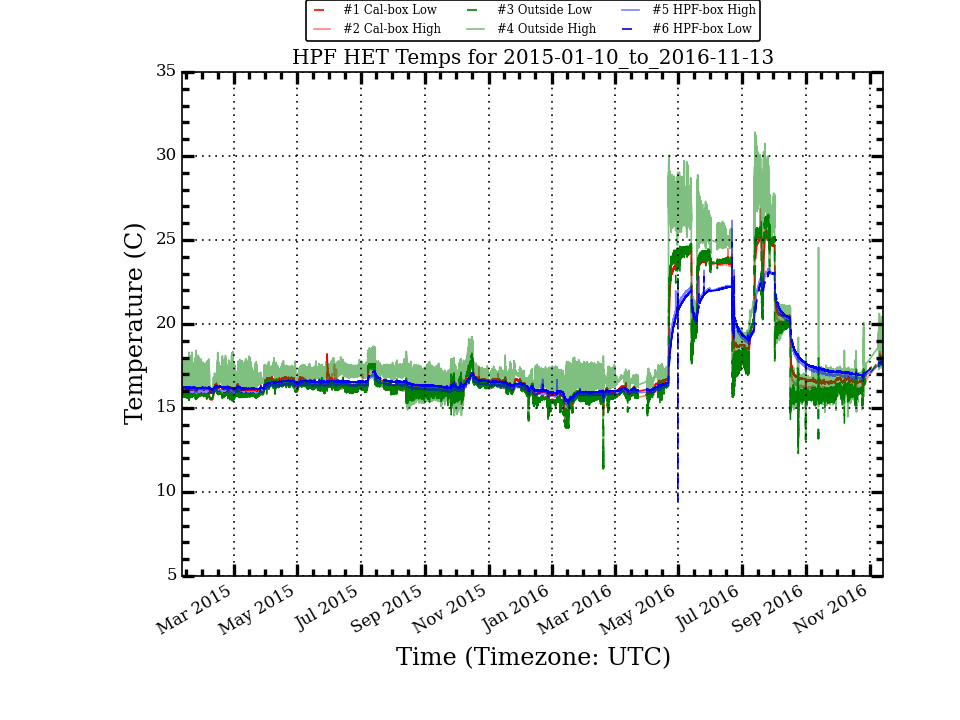
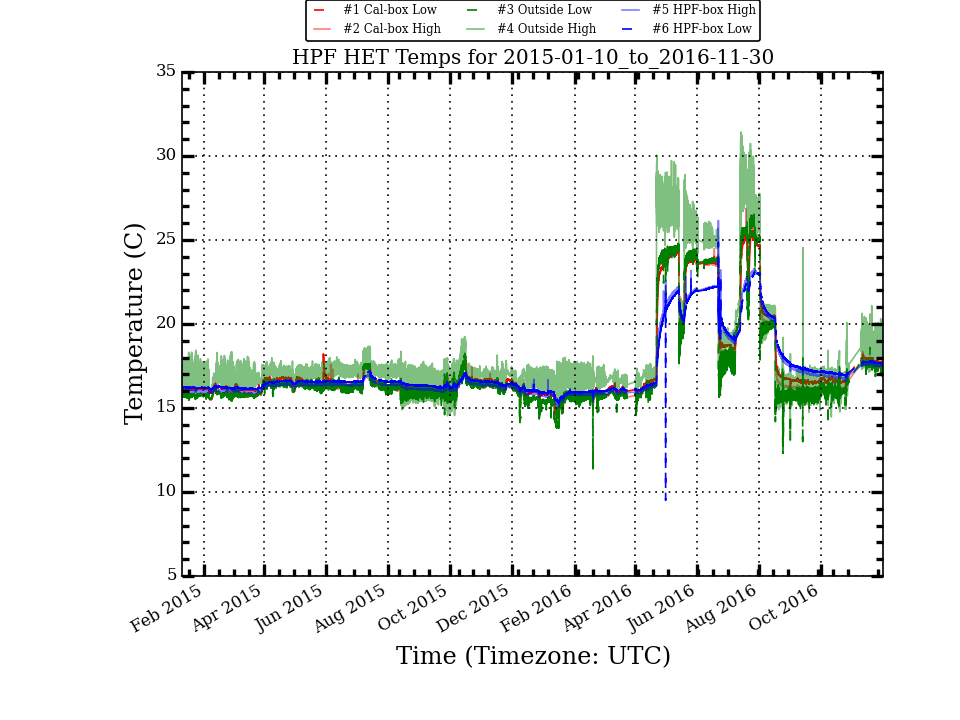
Update HPF Temp Plots

diff --git a/research/hpf_temps/plots/LakeShoreLogTotal_today_stats.html b/research/hpf_temps/plots/LakeShoreLogTotal_today_stats.html
@@ -10,56 +10,56 @@
  </TR>
  <TR>
   <TD>Cal_Low</TD>
-  <TD>17.952</TD>
-  <TD>0.003</TD>
-  <TD>17.952</TD>
-  <TD>17.957</TD>
-  <TD>17.943</TD>
-  <TD>0.014</TD>
+  <TD>17.738</TD>
+  <TD>0.013</TD>
+  <TD>17.744</TD>
+  <TD>17.755</TD>
+  <TD>17.714</TD>
+  <TD>0.041</TD>
  </TR>
  <TR>
   <TD>Cal_High</TD>
-  <TD>17.653</TD>
-  <TD>0.006</TD>
-  <TD>17.653</TD>
-  <TD>17.664</TD>
-  <TD>17.639</TD>
-  <TD>0.025</TD>
+  <TD>17.433</TD>
+  <TD>0.016</TD>
+  <TD>17.438</TD>
+  <TD>17.462</TD>
+  <TD>17.395</TD>
+  <TD>0.067</TD>
  </TR>
  <TR>
   <TD>Out_Low</TD>
-  <TD>17.746</TD>
-  <TD>0.024</TD>
-  <TD>17.746</TD>
-  <TD>17.811</TD>
-  <TD>17.675</TD>
-  <TD>0.136</TD>
+  <TD>17.449</TD>
+  <TD>0.115</TD>
+  <TD>17.484</TD>
+  <TD>17.629</TD>
+  <TD>16.867</TD>
+  <TD>0.762</TD>
  </TR>
  <TR>
   <TD>Out_High</TD>
-  <TD>18.750</TD>
-  <TD>0.373</TD>
-  <TD>18.640</TD>
-  <TD>20.037</TD>
-  <TD>18.216</TD>
-  <TD>1.821</TD>
+  <TD>18.604</TD>
+  <TD>0.399</TD>
+  <TD>18.532</TD>
+  <TD>20.301</TD>
+  <TD>18.005</TD>
+  <TD>2.296</TD>
  </TR>
  <TR>
   <TD>HPF_High</TD>
-  <TD>17.589</TD>
-  <TD>0.004</TD>
-  <TD>17.588</TD>
-  <TD>17.598</TD>
-  <TD>17.582</TD>
-  <TD>0.016</TD>
+  <TD>17.532</TD>
+  <TD>0.008</TD>
+  <TD>17.534</TD>
+  <TD>17.547</TD>
+  <TD>17.516</TD>
+  <TD>0.031</TD>
  </TR>
  <TR>
   <TD>HPF_Low</TD>
-  <TD>17.733</TD>
+  <TD>17.676</TD>
   <TD>0.003</TD>
-  <TD>17.732</TD>
-  <TD>17.739</TD>
-  <TD>17.727</TD>
-  <TD>0.012</TD>
+  <TD>17.676</TD>
+  <TD>17.683</TD>
+  <TD>17.669</TD>
+  <TD>0.014</TD>
  </TR>
 </TABLE>

diff --git a/research/hpf_temps/plots/LakeShoreLogTotal_stats.html b/research/hpf_temps/plots/LakeShoreLogTotal_stats.html
@@ -10,54 +10,54 @@
  </TR>
  <TR>
   <TD>Cal_Low</TD>
-  <TD>17.423</TD>
-  <TD>2.467</TD>
-  <TD>16.515</TD>
+  <TD>17.433</TD>
+  <TD>2.436</TD>
+  <TD>16.529</TD>
   <TD>25.643</TD>
   <TD>14.496</TD>
   <TD>11.147</TD>
  </TR>
  <TR>
   <TD>Cal_High</TD>
-  <TD>17.128</TD>
-  <TD>2.614</TD>
-  <TD>16.145</TD>
+  <TD>17.138</TD>
+  <TD>2.581</TD>
+  <TD>16.163</TD>
   <TD>26.856</TD>
   <TD>14.080</TD>
   <TD>12.776</TD>
  </TR>
  <TR>
   <TD>Out_Low</TD>
-  <TD>17.119</TD>
-  <TD>2.663</TD>
-  <TD>16.135</TD>
+  <TD>17.131</TD>
+  <TD>2.629</TD>
+  <TD>16.160</TD>
   <TD>26.532</TD>
   <TD>11.376</TD>
   <TD>15.156</TD>
  </TR>
  <TR>
   <TD>Out_High</TD>
-  <TD>18.078</TD>
-  <TD>3.065</TD>
-  <TD>17.025</TD>
+  <TD>18.088</TD>
+  <TD>3.026</TD>
+  <TD>17.044</TD>
   <TD>31.424</TD>
   <TD>11.861</TD>
   <TD>19.563</TD>
  </TR>
  <TR>
   <TD>HPF_High</TD>
-  <TD>17.147</TD>
-  <TD>1.970</TD>
-  <TD>16.355</TD>
+  <TD>17.158</TD>
+  <TD>1.946</TD>
+  <TD>16.360</TD>
   <TD>26.165</TD>
   <TD>15.065</TD>
   <TD>11.100</TD>
  </TR>
  <TR>
   <TD>HPF_Low</TD>
-  <TD>17.289</TD>
-  <TD>1.872</TD>
-  <TD>16.552</TD>
+  <TD>17.300</TD>
+  <TD>1.849</TD>
+  <TD>16.557</TD>
   <TD>24.868</TD>
   <TD>9.505</TD>
   <TD>15.363</TD>
